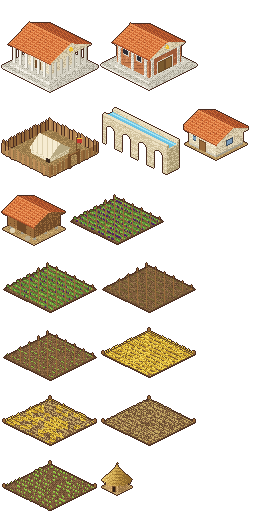
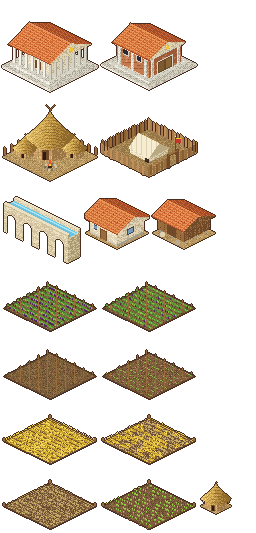
Era I town centre is the Regia (hut village with hearth); upgrades to the marble Forum in Era II

diff --git a/docs/DESIGN.md b/docs/DESIGN.md
@@ -51,6 +51,14 @@ name and dates on hover, and a progress readout while an advance is under way. *
 
 ---
 
+### Era I town centre: the Regia
+
+Early Rome was a cluster of thatched wattle-and-daub huts, and the Forum was a drained marsh (paved c. 600 BC),
+not a marble building. So in Era I the town centre is the **Regia** (the king's house): a great round hall
+beside two lesser huts, a stake palisade and the sacred hearth. Entering Era II upgrades it in place to the
+marble **Forum**. It is the same building in the game logic (`town_center`); only its name and sprite (`regia`
+vs `town_center`) depend on the era (`Building.era`).
+
 ### Era II content — built
 
 | Thing | Latin | Notes |
